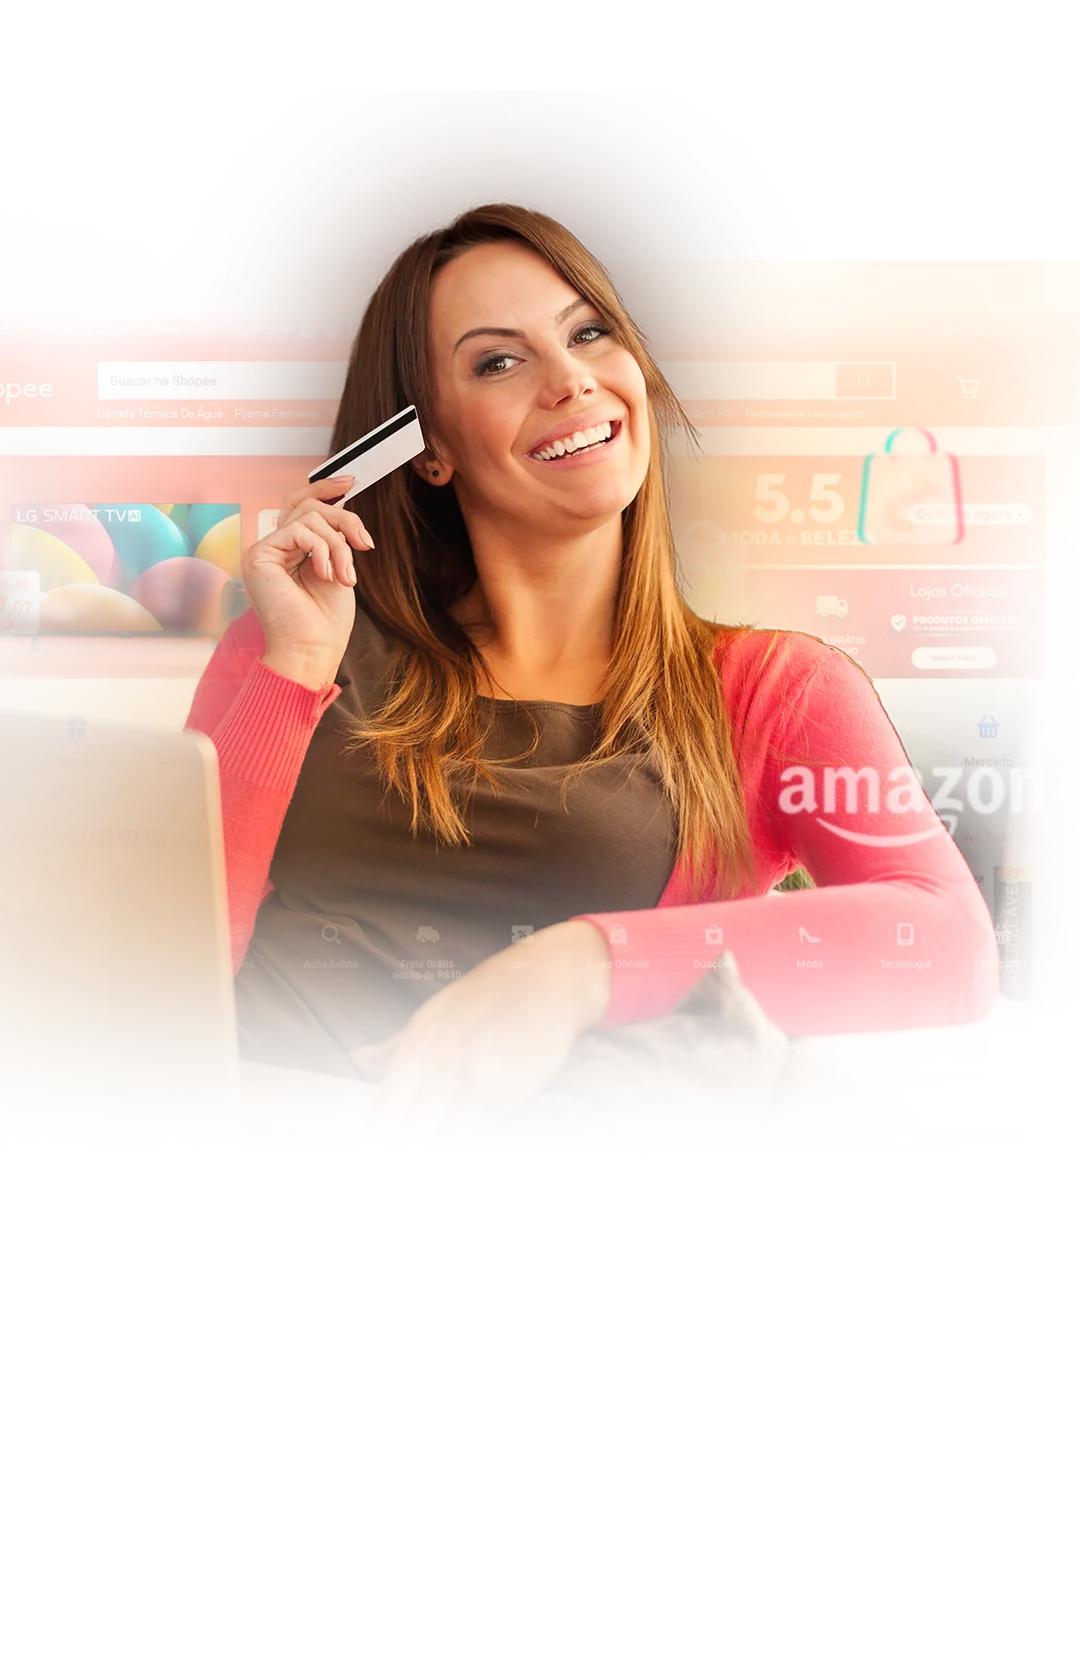
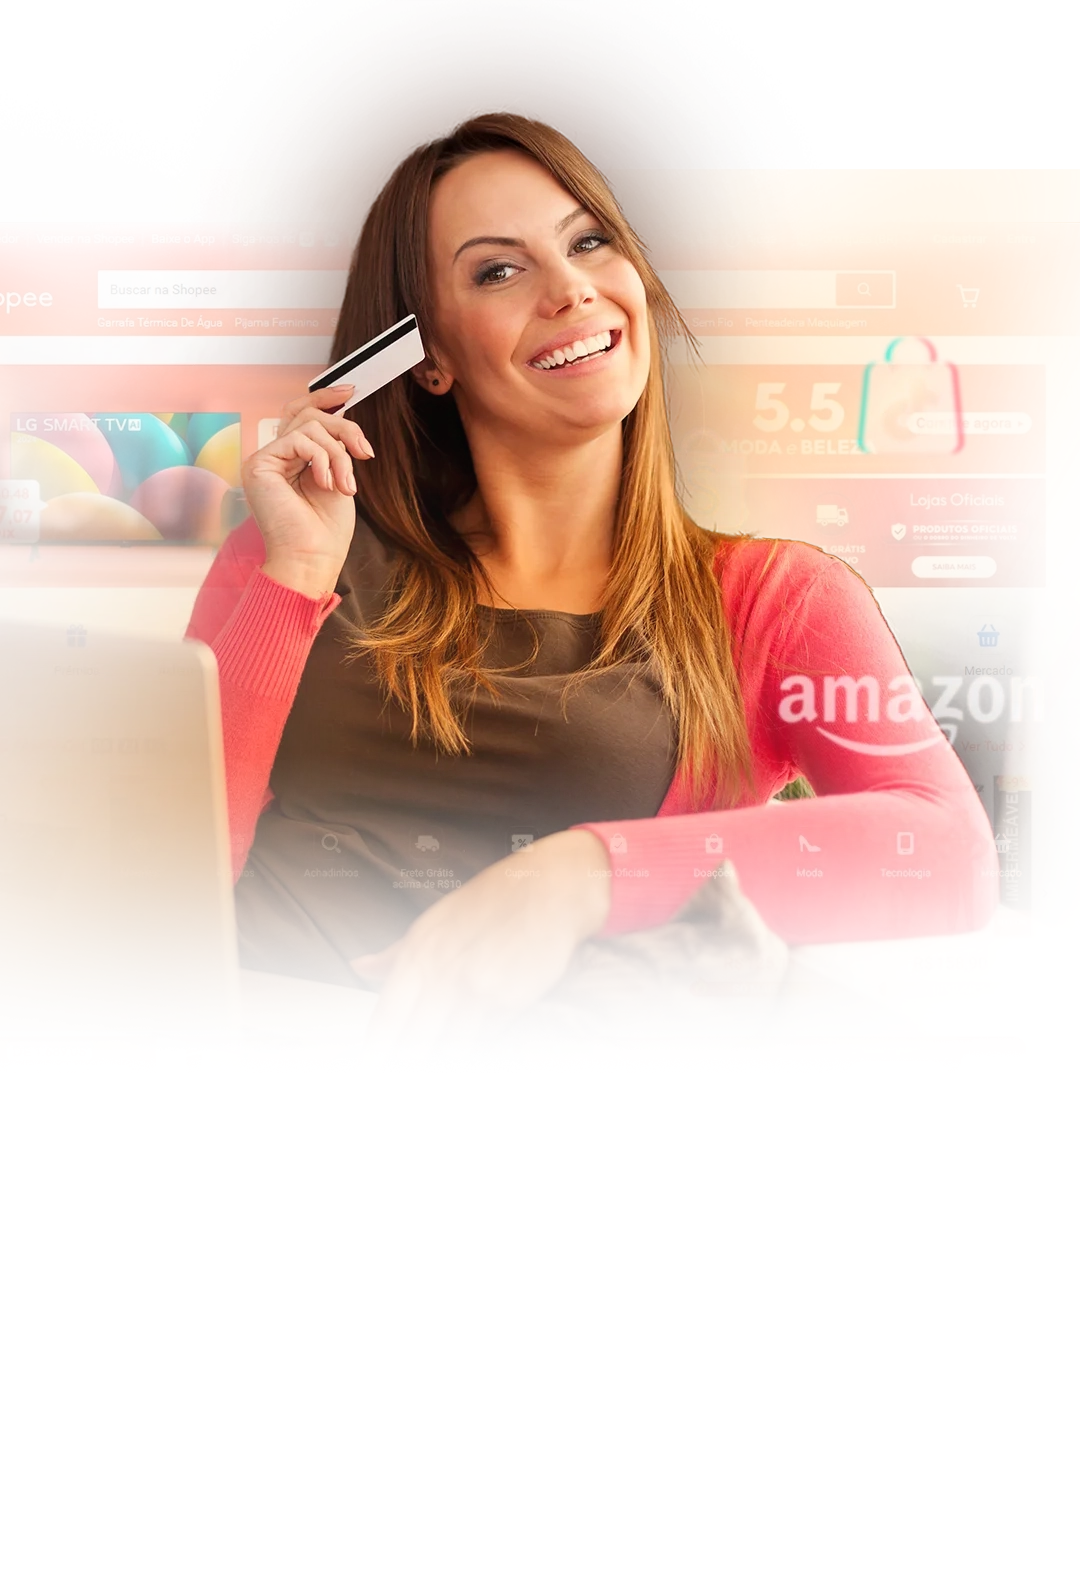
04

Changed region(s): [[0.0, 0.0312, 0.9472, 0.655]]

diff --git a/src/app/servicos/loja-online/page.tsx b/src/app/servicos/loja-online/page.tsx
@@ -20,7 +20,7 @@ export default function EcommerceServicePage() {
         <section id="hero" className="relative w-full h-[93vh] flex items-center justify-center pt-24 pb-16 md:pt-32 md:pb-32 overflow-hidden bg-[linear-gradient(135deg,#C71131_0%,#EF3B1F_100%)]">
 
           {/* Background Image Layer */}
-          <div className="absolute inset-0 z-0 flex items-end justify-center pointer-events-none">
+          <div className="absolute inset-0 z-0 flex items-end justify-center pointer-events-none bg-top md:bg-bottom">
             <Reveal animation="fade-right" className="flex items-end justify-center ">
               {/* Desktop Background */}
               <Image
@@ -37,7 +37,7 @@ export default function EcommerceServicePage() {
                 alt="Background ecommerce marketplace"
                 width={1000}
                 height={1500}
-                className="block md:hidden w-full h-full object-cover"
+                className="block md:hidden w-full h-full object-cover 0 center"
                 priority
               />
             </Reveal>
@@ -45,11 +45,11 @@ export default function EcommerceServicePage() {
 
           <div className="container-site relative z-10 flex flex-col items-center text-center pt-64 lg:pt-0 lg:text-left lg:items-start">
             <Reveal className="flex flex-col gap-4 mb-3 lg:mb-6">
-              <Breadcrumbs 
+              <Breadcrumbs
                 items={[
                   { label: "Serviços", href: "/#servicos" },
                   { label: "E-commerce", href: "/servicos/loja-online" }
-                ]} 
+                ]}
               />
               <div className="flex w-fit items-center gap-1 border border-white/30 rounded-full px-2 py-1.5">
                 <CrosshairIcon weight="regular" className="w-2 h-2 text-white animate-pulse" />

diff --git a/src/components/sections/Problemas.tsx b/src/components/sections/Problemas.tsx
@@ -86,15 +86,12 @@ export function Problemas() {
         </div>
 
         {/* Rodapé da Section */}
-        <Reveal delay={800} className="lg:flex flex-col sm:flex-row items-center justify-center gap-1 text-center text-sm md:text-base text-secondary-300">
-          <div className="lg:flex items-center gap-1 text-center justify-center">
-            <WarningDiamondIcon weight="regular" className="w-2 h-2 text-primary-500 shrink-0" />
-            <span>Se você disse sim para algum desses problemas, temos a solução certa para você.</span>
-          </div>
-          <Link
-            href="/contactos"
-            className="flex items-center gap-1 text-primary-500 hover:text-primary-400 transition-colors ml-1 font-medium group"
-          >
+        <Reveal delay={800} className="flex flex-col lg:flex-row items-center justify-center gap-1 text-center text-sm md:text-base text-secondary-300">
+
+          <WarningDiamondIcon weight="regular" className="w-2 h-2 text-primary-500 shrink-0" />
+          <span>Se você disse sim para algum desses problemas, temos a solução certa para você.</span>
+
+          <Link href="/contactos" className="flex items-center gap-1 text-primary-500 hover:text-primary-400 transition-colors ml-1 font-medium group">
             Entre em contato
             <ArrowUpRight weight="regular" className="w-2 h-2 group-hover:translate-x-0.5 group-hover:-translate-y-0.5 transition-transform" />
           </Link>

diff --git a/src/components/sections/Services.tsx b/src/components/sections/Services.tsx
@@ -112,8 +112,7 @@ export function Services() {
 
           {/* Heading */}
           <h2 className="text-center text-primary-50 text-lg md:text-3xl font-light">
-            <span className="text-primary-500 font-extrabold mr-2">O que fazemos</span>
-            e como cada solução pode crescer o seu negócio.
+            <span className="text-primary-500 font-extrabold">O que fazemos</span> e como cada solução pode crescer o seu negócio.
           </h2>
 
           {/* Subtitle */}
@@ -232,23 +231,6 @@ export function Services() {
         </div>
       </div>
 
-      {/* Setas Mobile */}
-      <div className="flex lg:hidden justify-center items-center gap-4 mt-8 w-full">
-        <button
-          onClick={() => scroll(-280)}
-          className="w-12 h-12 rounded-full bg-white flex items-center justify-center text-primary-500 shadow-xl hover:bg-neutral-50 transition-colors"
-          aria-label="Anterior"
-        >
-          <ArrowLeft weight="bold" className="w-5 h-5" />
-        </button>
-        <button
-          onClick={() => scroll(280)}
-          className="w-12 h-12 rounded-full bg-white flex items-center justify-center text-primary-500 shadow-xl hover:bg-neutral-50 transition-colors"
-          aria-label="Próximo"
-        >
-          <ArrowRight weight="bold" className="w-5 h-5" />
-        </button>
-      </div>
     </Section>
   );
 }

diff --git a/src/components/ui/Breadcrumbs.tsx b/src/components/ui/Breadcrumbs.tsx
@@ -13,16 +13,16 @@ interface BreadcrumbsProps {
 
 export function Breadcrumbs({ items, className = "" }: BreadcrumbsProps) {
   return (
-    <nav aria-label="Breadcrumb" className={`flex items-center gap-2 text-xs md:text-sm ${className}`}>
+    <nav aria-label="Breadcrumb" className={`flex items-center gap-2 text-2xs md:text-xs ${className}`}>
       <Link href="/" className="text-white/60 hover:text-white transition-colors">
         Home
       </Link>
-      
+
       {items.map((item, index) => (
         <div key={item.href} className="flex items-center gap-2">
           <CaretRight weight="bold" className="w-2 h-2 text-white/40" />
           {index === items.length - 1 ? (
-            <span className="text-white font-medium" aria-current="page">
+            <span className="text-white font-regular" aria-current="page">
               {item.label}
             </span>
           ) : (

diff --git a/src/components/sections/Hero.tsx b/src/components/sections/Hero.tsx
@@ -55,7 +55,7 @@ export function Hero() {
         {/* CTAs */}
         <Reveal delay={300}>
           <div className="flex flex-col sm:flex-row items-center gap-4 mt-6">
-            <Link href="/contactos" className="bg-secondary-900 hover:bg-secondary-600 text-sm lg:text-lg w-full lg:w-fit btn-lg flex items-center gap-2 text-white rounded-md py-4 px-6 transition-colors">
+            <Link href="/contactos" className="bg-secondary-900 hover:bg-secondary-600 text-sm lg:text-lg w-full lg:w-fit btn-lg flex items-center gap-2 text-white rounded-md py-4 px-4 transition-colors">
               Quero marcar uma conversa
               <ArrowUpRight weight="regular" className="w-3 h-3" />
             </Link>
